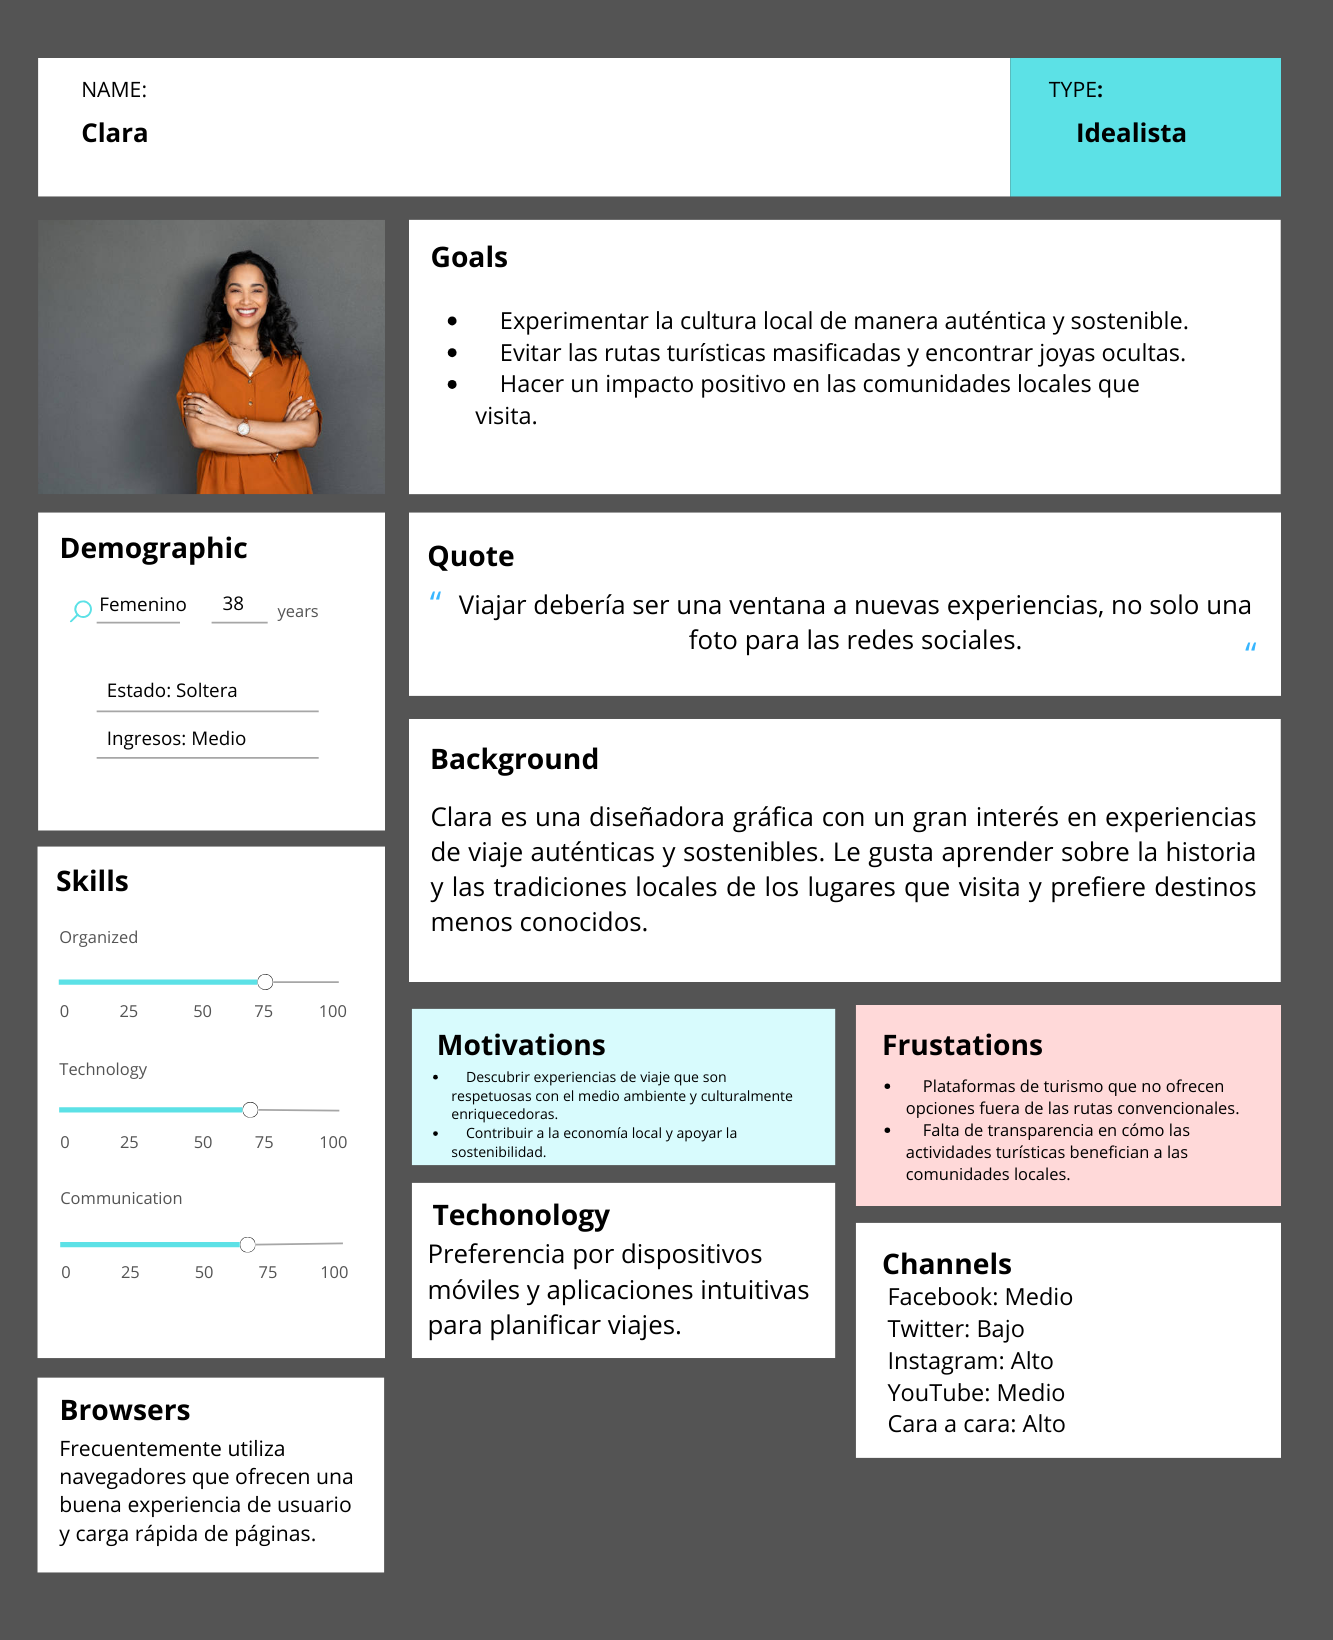
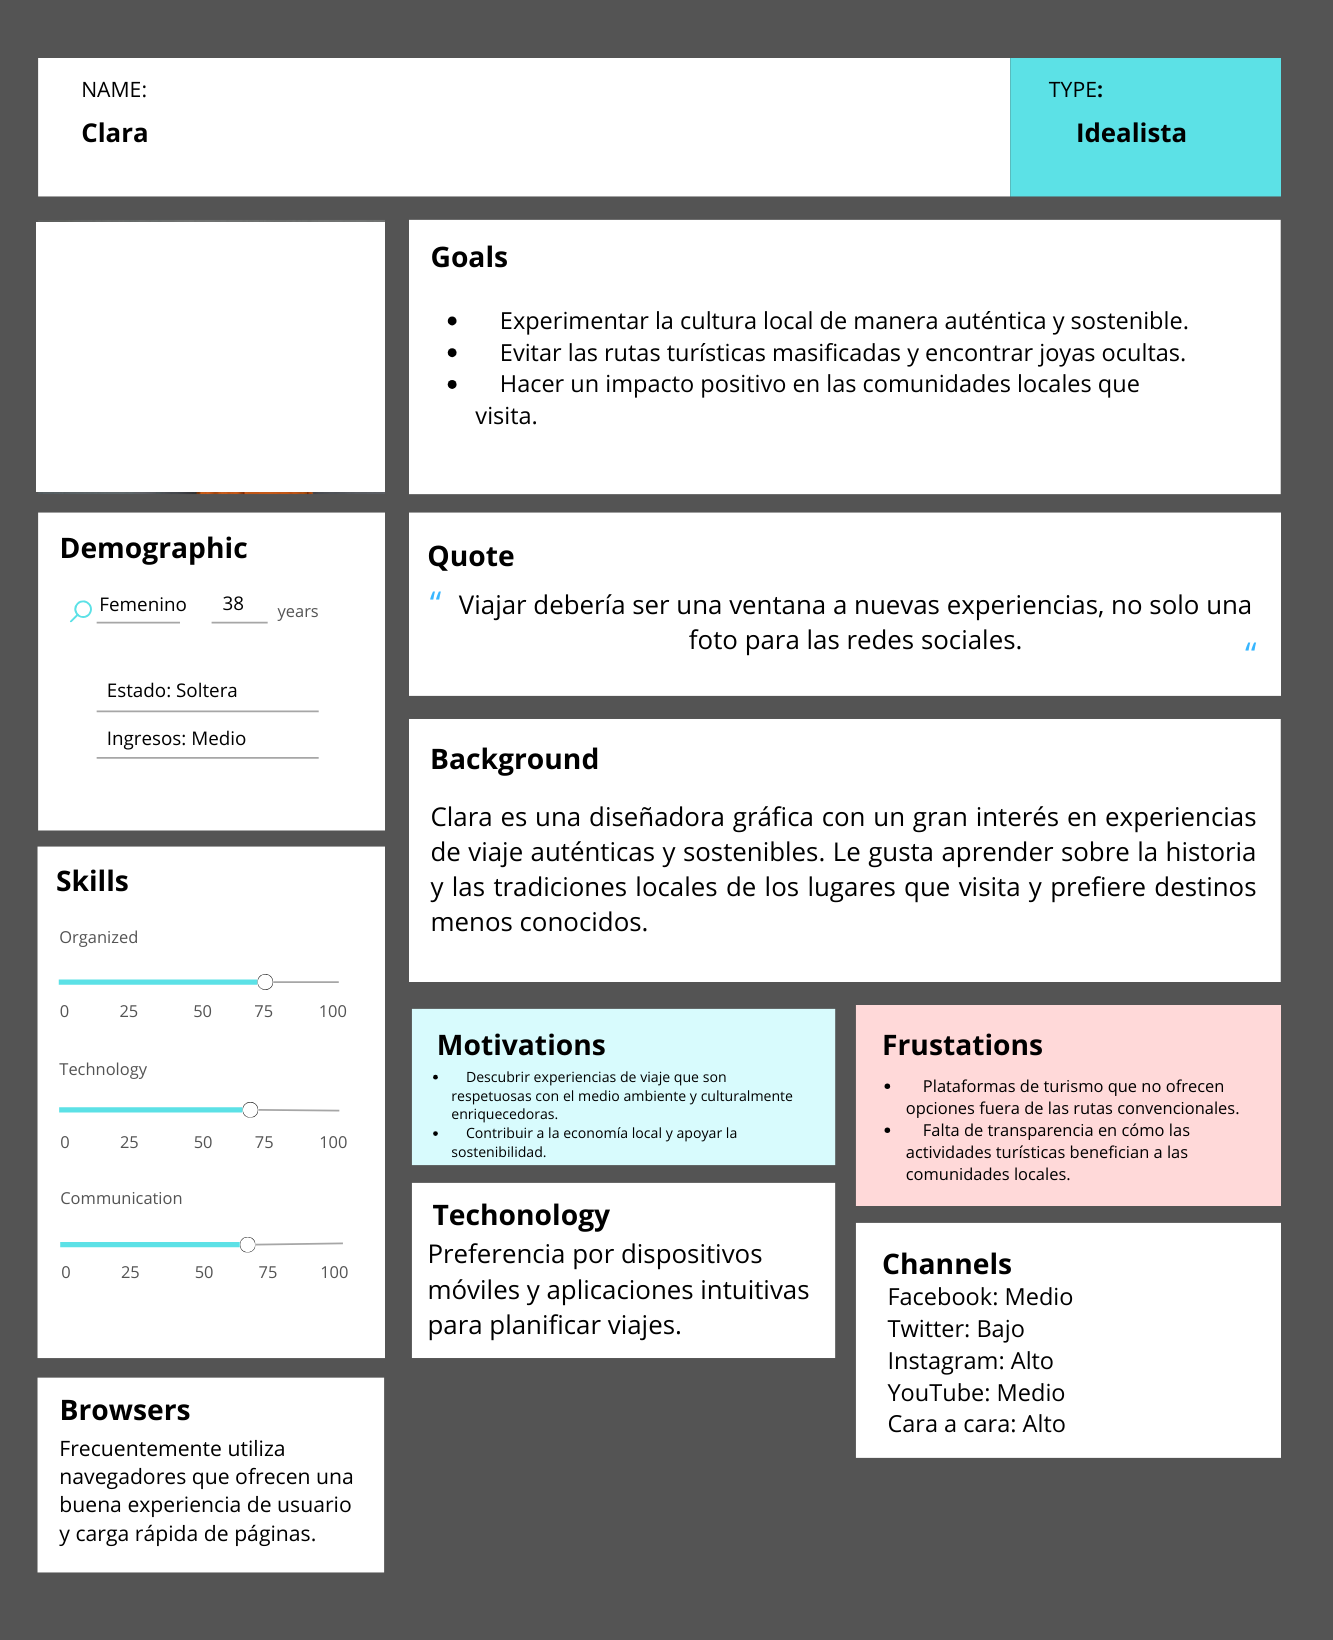
feat: cambiado el user persona y el student outcome

Changed region(s): [[0.0, 0.1244, 0.3076, 0.311]]

diff --git a/README.md b/README.md
@@ -241,8 +241,13 @@ Imforme: <https://github.com/Grupo-4-SW55-SYNTAXSQUAD/Reporte-Per-Ventura>
         <td></td>
     </tr>
     <tr>
-        <td></td>
-        <td></td>
+        <td>
+            Sabe manejar el analisis de los usuarios, sus preferencias y organizar los componentes del landing page
+        </td>
+        <td>
+            David Bryan Rodriguez Santos <br>
+            <em> TB1</em>
+        </td>
         <td></td>
     </tr>
 </table>
